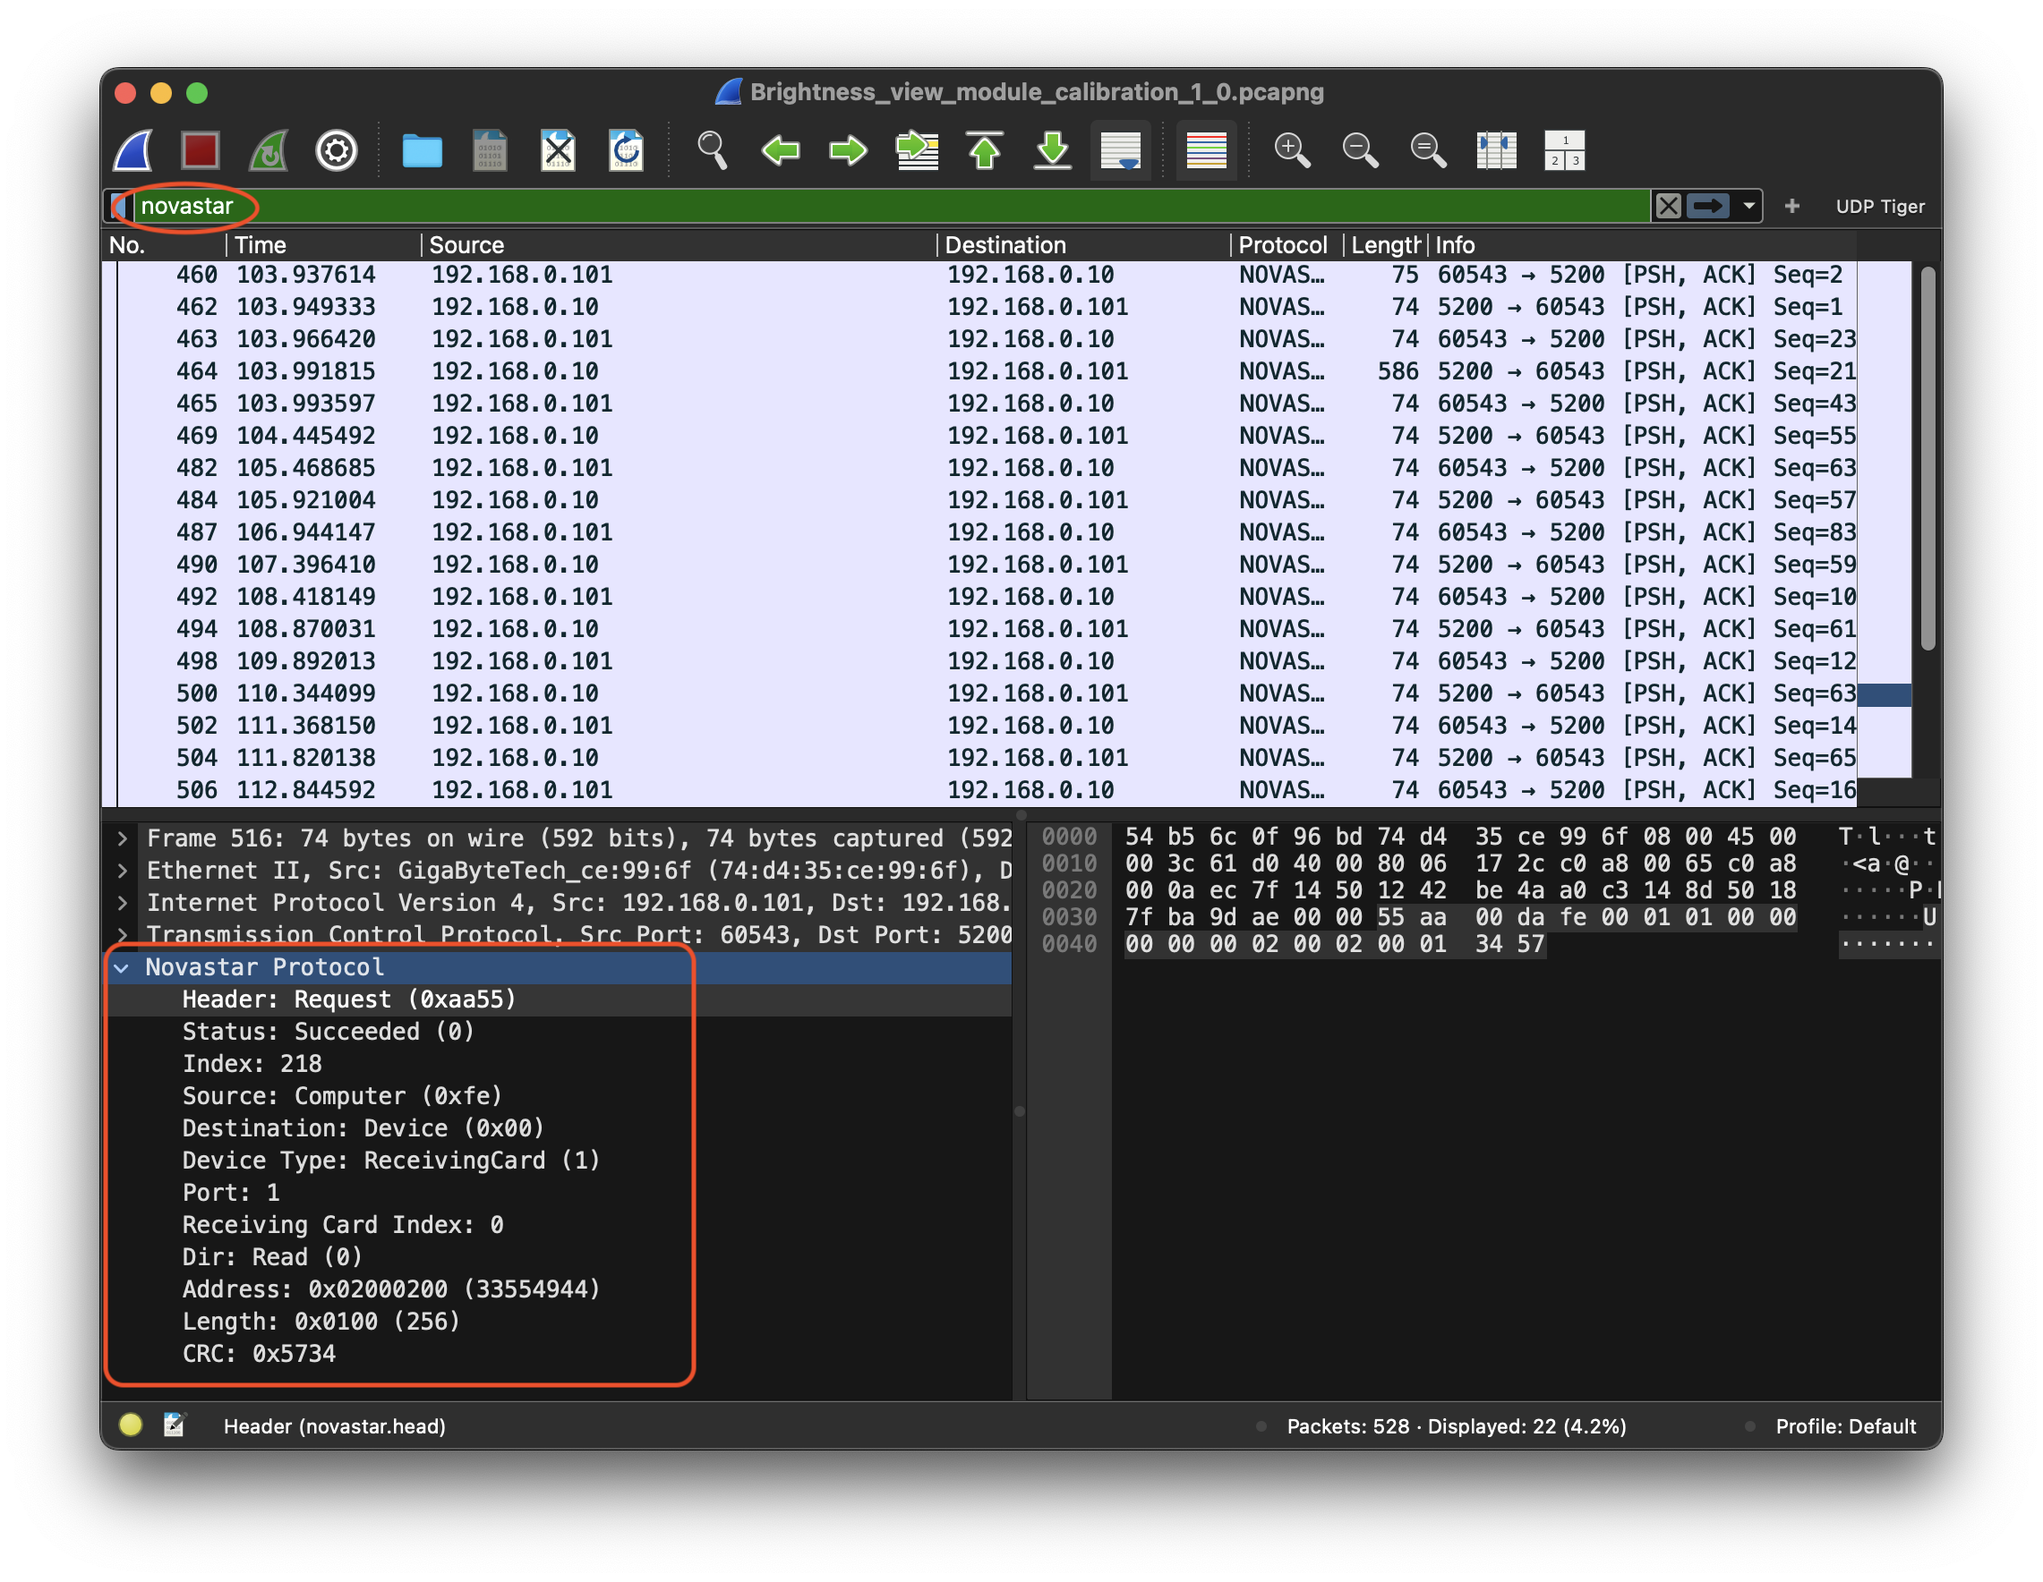
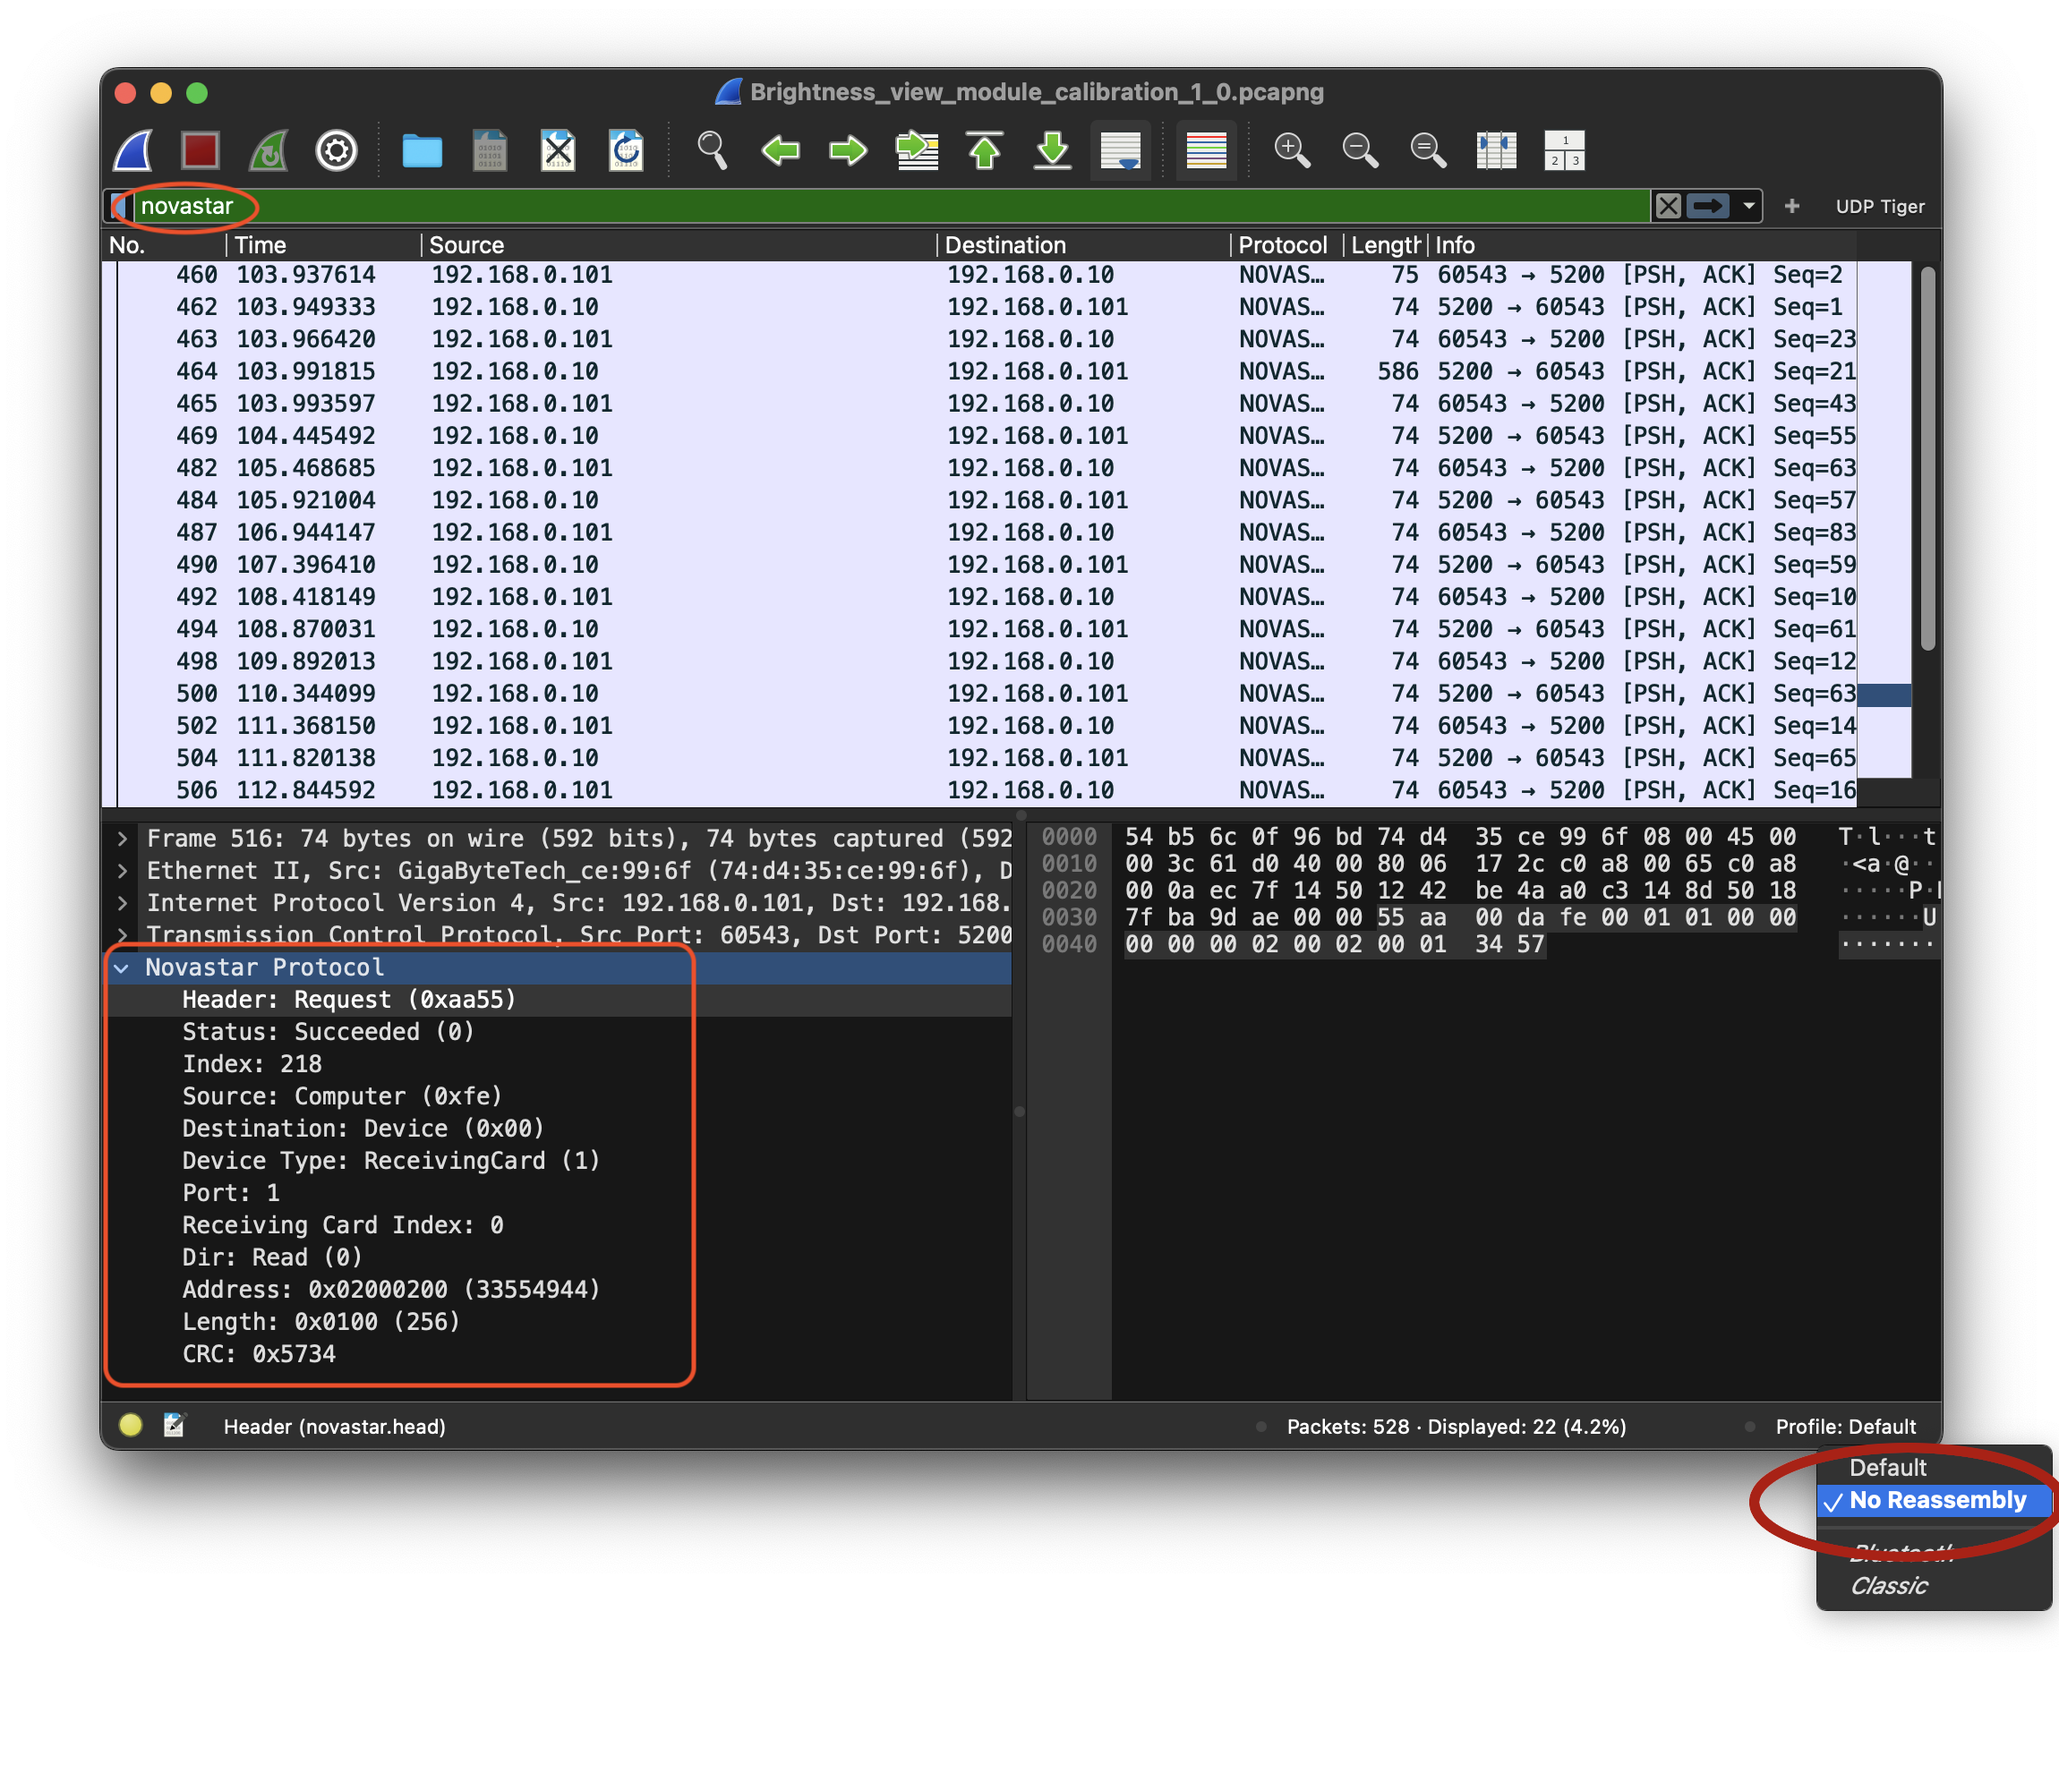
docs: change the "Default" profile to "Classic" or "No Reassembly"

diff --git a/README.md b/README.md
@@ -14,7 +14,7 @@ This monorepo consists of the following packages:
 
 ## Wireshark Lua/Dissector ![Logo](https://www.wireshark.org/assets/icons/wireshark-fin.png)
 
-Using Dissector (`./wireshark/novastar.lua`) you can independently examine the novastar exchange protocol using the [Wireshark](https://www.wireshark.org) network protocol analyzer. It will add a new protocol `novastar`, which you can use as a filter and analyze the packet content.
+Using Dissector (`./wireshark/novastar.lua`) you can independently examine the novastar exchange protocol using the [Wireshark](https://www.wireshark.org) network protocol analyzer. It will add a new protocol `novastar`, which you can use as a filter and analyze the packet content. I recommend changing the default profile to classic or "no reassembly" to avoid conflicts with current protocols.
 
 Create an ```init.lua``` file in wireshark plugins folder or add the following line to an existing one:
 
